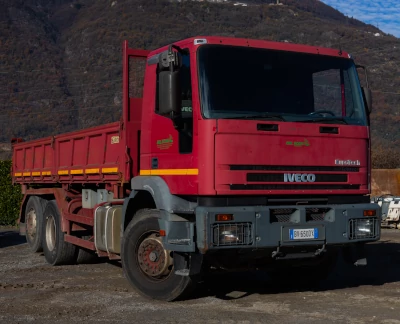
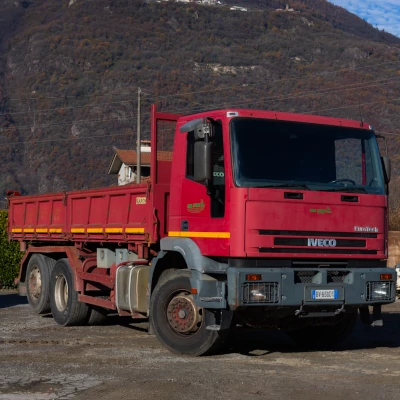
Eliminata un'immagine in più tra le immagini dei mezzi

diff --git a/HTML/pages/mezzi.html b/HTML/pages/mezzi.html
@@ -7,13 +7,13 @@
     <!-- Gruppo Veicoli da Trasporto -->
     <li>
       <figure>
-        <img src="Images/mezzi/camion_arancione_3.webp" alt="Robusto camion IVECO EuroCargo 4&times;4 arancione, per terreni accidentati, portata 8 tonnellate">
+        <img src="Images/mezzi/camion_arancione.webp" alt="Robusto camion IVECO EuroCargo 4&times;4 arancione, per terreni accidentati, portata 8 tonnellate">
         <figcaption>Euro Cargo 4&times;4 Portata 8 ton</figcaption>
       </figure>
     </li>
     <li>
       <figure>
-        <img src="Images/mezzi/camion_rosso_2.webp" alt="Camion IVECO EuroTech rosso, robusto e versatile, con una portata massima di 16 tonnellate">
+        <img src="Images/mezzi/camion_rosso.webp" alt="Camion IVECO EuroTech rosso, robusto e versatile, con una portata massima di 16 tonnellate">
         <figcaption>Euro Tech Portata 16 ton</figcaption>
       </figure>
     </li>
